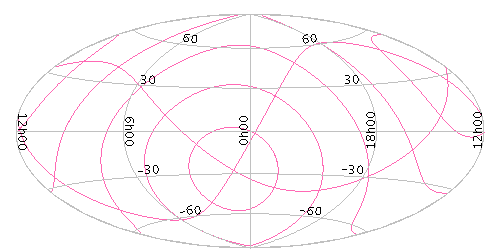
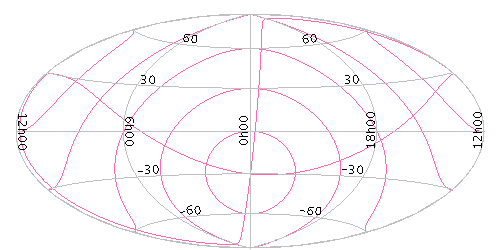
ttools: fix skygrid plot from stilts to see viewsys
The SkyGrid plotter was not being fed the plot's View SkySystem
from the STILTS context (though it was from TOPCAT).  The effect
was that the stilts plot2sky viewsys parameter was ignored
(effectively assumed equatorial), making the skygrid plot from stilts
incorrect for non-equatorial viewsys values.  Oops.
Make the necessary changes to the stilts plotting harness, and also
add some checks and comments in the SkyGridPlotter that would spot
if this kind of thing were to arise again.

diff --git a/ttools/src/main/uk/ac/starlink/ttools/plot2/layer/SkyGridPlotter.java b/ttools/src/main/uk/ac/starlink/ttools/plot2/layer/SkyGridPlotter.java
@@ -48,6 +48,9 @@ import uk.ac.starlink.ttools.plot2.paper.PaperType;
  */
 public class SkyGridPlotter extends AbstractPlotter<SkyGridPlotter.GridStyle> {
 
+    private static final String VIEWSYS_NAME =
+        SkySurfaceFactory.VIEWSYS_KEY.getMeta().getShortName();
+
     /** Config key for grid line colour. */
     public static final ConfigKey<Color> COLOR_KEY =
         StyleKeys.GRID_COLOR;
@@ -92,6 +95,10 @@ public class SkyGridPlotter extends AbstractPlotter<SkyGridPlotter.GridStyle> {
            .setXmlDescription( new String[] {
                 "<p>The sky coordinate system used for the additional",
                 "grid axes.",
+                "This is used in conunction with the",
+                "<code>" + VIEWSYS_NAME + "</code> parameter",
+                "defined for the plot as a whole",
+                "to determin what grid lines to plot.",
                 "</p>",
             } )
         , false )
@@ -137,6 +144,9 @@ public class SkyGridPlotter extends AbstractPlotter<SkyGridPlotter.GridStyle> {
             "This can be overlaid on the default sky axis grid",
             "so that axes for multiple sky coordinate systems",
             "are simultaneously visible.",
+            "The plots are done relative to the View sky system",
+            "(<code>" + VIEWSYS_NAME + "</code> parameter)",
+            "defined for the plot as a whole.",
             "</p>",
             "<p>Note that some of the configuration items for this plotter,",
             "such as grid line antialiasing and the decimal/sexagesimal flag,",
@@ -158,7 +168,12 @@ public class SkyGridPlotter extends AbstractPlotter<SkyGridPlotter.GridStyle> {
 
     public GridStyle createStyle( ConfigMap config ) {
 
-        /* Acquire config items from global config. */
+        /* Acquire config items from global config.
+         * Note that the plotting UI (STILTS or TOPCAT) has to make
+         * special arrangements to ensure that VIEWSYS_KEY is included
+         * in the config map, since it is a global value for the plot,
+         * not specified per layer, and therefore is not declared
+         * as one of this plotter's style keys. */
         SkySys viewsys = config.get( SkySurfaceFactory.VIEWSYS_KEY );
         Captioner captioner = StyleKeys.CAPTIONER.createValue( config );
         boolean antialias =
@@ -174,8 +189,13 @@ public class SkyGridPlotter extends AbstractPlotter<SkyGridPlotter.GridStyle> {
         double loncrowd = config.get( LONCROWD_KEY ).doubleValue();
         double latcrowd = config.get( LATCROWD_KEY ).doubleValue();
 
-        /* Turn config items into a GridStyle instance. */
-        Rotation rotation = Rotation.createRotation( gridsys, viewsys );
+        /* Turn config items into a GridStyle instance.
+         * Plotting a sky grid only makes sense if both the grid system
+         * and the view system are known, so make sure that the thing
+         * fails if either is undefined (which shouldn't happen). */
+        Rotation rotation = gridsys == null || viewsys == null
+                          ? null
+                          : Rotation.createRotation( gridsys, viewsys );
         return new GridStyle( rotation, color, labeller, captioner,
                               sexagesimal, loncrowd, latcrowd, antialias );
     }

diff --git a/ttools/src/main/uk/ac/starlink/ttools/plot2/task/SkyPlot2Task.java b/ttools/src/main/uk/ac/starlink/ttools/plot2/task/SkyPlot2Task.java
@@ -5,6 +5,7 @@ import uk.ac.starlink.task.Parameter;
 import uk.ac.starlink.task.TaskException;
 import uk.ac.starlink.ttools.plot2.DataGeom;
 import uk.ac.starlink.ttools.plot2.SingleGanger;
+import uk.ac.starlink.ttools.plot2.config.ConfigMap;
 import uk.ac.starlink.ttools.plot2.config.ConfigMeta;
 import uk.ac.starlink.ttools.plot2.config.SkySysConfigKey;
 import uk.ac.starlink.ttools.plot2.geom.HealpixDataGeom;
@@ -24,6 +25,8 @@ import uk.ac.starlink.ttools.plot2.layer.HealpixPlotter;
 public class SkyPlot2Task
         extends TypedPlot2Task<SkySurfaceFactory.Profile,SkyAspect> {
 
+    private final SkyPlotContext skyContext_;
+
     private static final String viewsysName_ =
         SkySurfaceFactory.VIEWSYS_KEY.getMeta().getShortName();
 
@@ -32,6 +35,7 @@ public class SkyPlot2Task
      */
     public SkyPlot2Task() {
         super( SkyPlotType.getInstance(), null, new SkyPlotContext() );
+        skyContext_ = (SkyPlotContext) getPlotContext();
         Parameter<SkySys> viewsysParam = null;
         for ( Parameter<?> param : super.getParameters() ) {
             if ( viewsysName_.equals( param.getName() ) ) {
@@ -45,8 +49,16 @@ public class SkyPlot2Task
 
         /* Initialise the context with this parameter,
          * since it's not possible to do it at construction time. */
-        ((SkyPlotContext) getPlotContext())
-                         .setViewsysParameter( viewsysParam );
+        skyContext_.setViewsysParameter( viewsysParam );
+    }
+
+    @Override
+    public ConfigMap createCustomConfigMap( Environment env )
+            throws TaskException {
+        ConfigMap config = super.createCustomConfigMap( env );
+        config.put( SkySurfaceFactory.VIEWSYS_KEY,
+                    skyContext_.viewsysParam_.objectValue( env ) );
+        return config;
     }
 
     /**

diff --git a/ttools/src/main/uk/ac/starlink/ttools/plot2/task/AbstractPlot2Task.java b/ttools/src/main/uk/ac/starlink/ttools/plot2/task/AbstractPlot2Task.java
@@ -690,6 +690,20 @@ public abstract class AbstractPlot2Task implements Task, DynamicTask {
     }
 
     /**
+     * Provides any additional config keys (beyond layer style and aux map)
+     * that should be provided for layer creation.
+     * The default implementation returns an empty map,
+     * but this behaviour may be overridden by subclasses.
+     *
+     * @param  env  execution environment
+     * @return   custom config entries
+     */
+    public ConfigMap createCustomConfigMap( Environment env )
+            throws TaskException {
+        return new ConfigMap();
+    }
+
+    /**
      * Paints a sequence of animation frames under control of a parameter
      * table, outputting the result to a sequence of files.
      *
@@ -1801,9 +1815,11 @@ public abstract class AbstractPlot2Task implements Task, DynamicTask {
         ConfigMap auxConfig =
             createZoneSuffixedConfigMap( env, StyleKeys.AUX_RAMP.getKeys(),
                                          getZoneSuffix( env, suffix ) );
+        ConfigMap otherConfig = createCustomConfigMap( env );
         ConfigMap config = new ConfigMap();
         config.putAll( auxConfig );
         config.putAll( layerConfig );
+        config.putAll( otherConfig );
 
         /* Work out the requested style. */
         S style;
